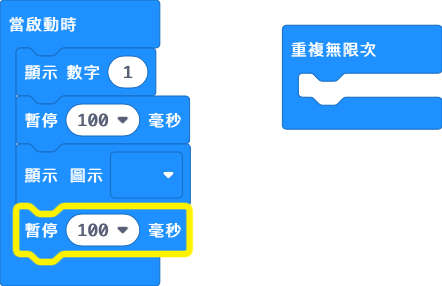
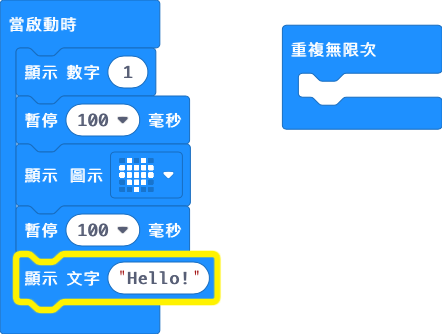
Update main.blocks, main.ts

Changed region(s): [[0.0294, 0.1399, 0.5, 0.951], [0.6176, 0.0559, 1.0, 0.4755], [0.0, 0.028, 0.1765, 0.1119]]

diff --git a/main.ts b/main.ts
@@ -2,6 +2,7 @@ basic.showNumber(1)
 basic.pause(100)
 basic.showIcon(IconNames.Heart)
 basic.pause(100)
+basic.showString("Hello!")
 basic.forever(function () {
 	
 })
